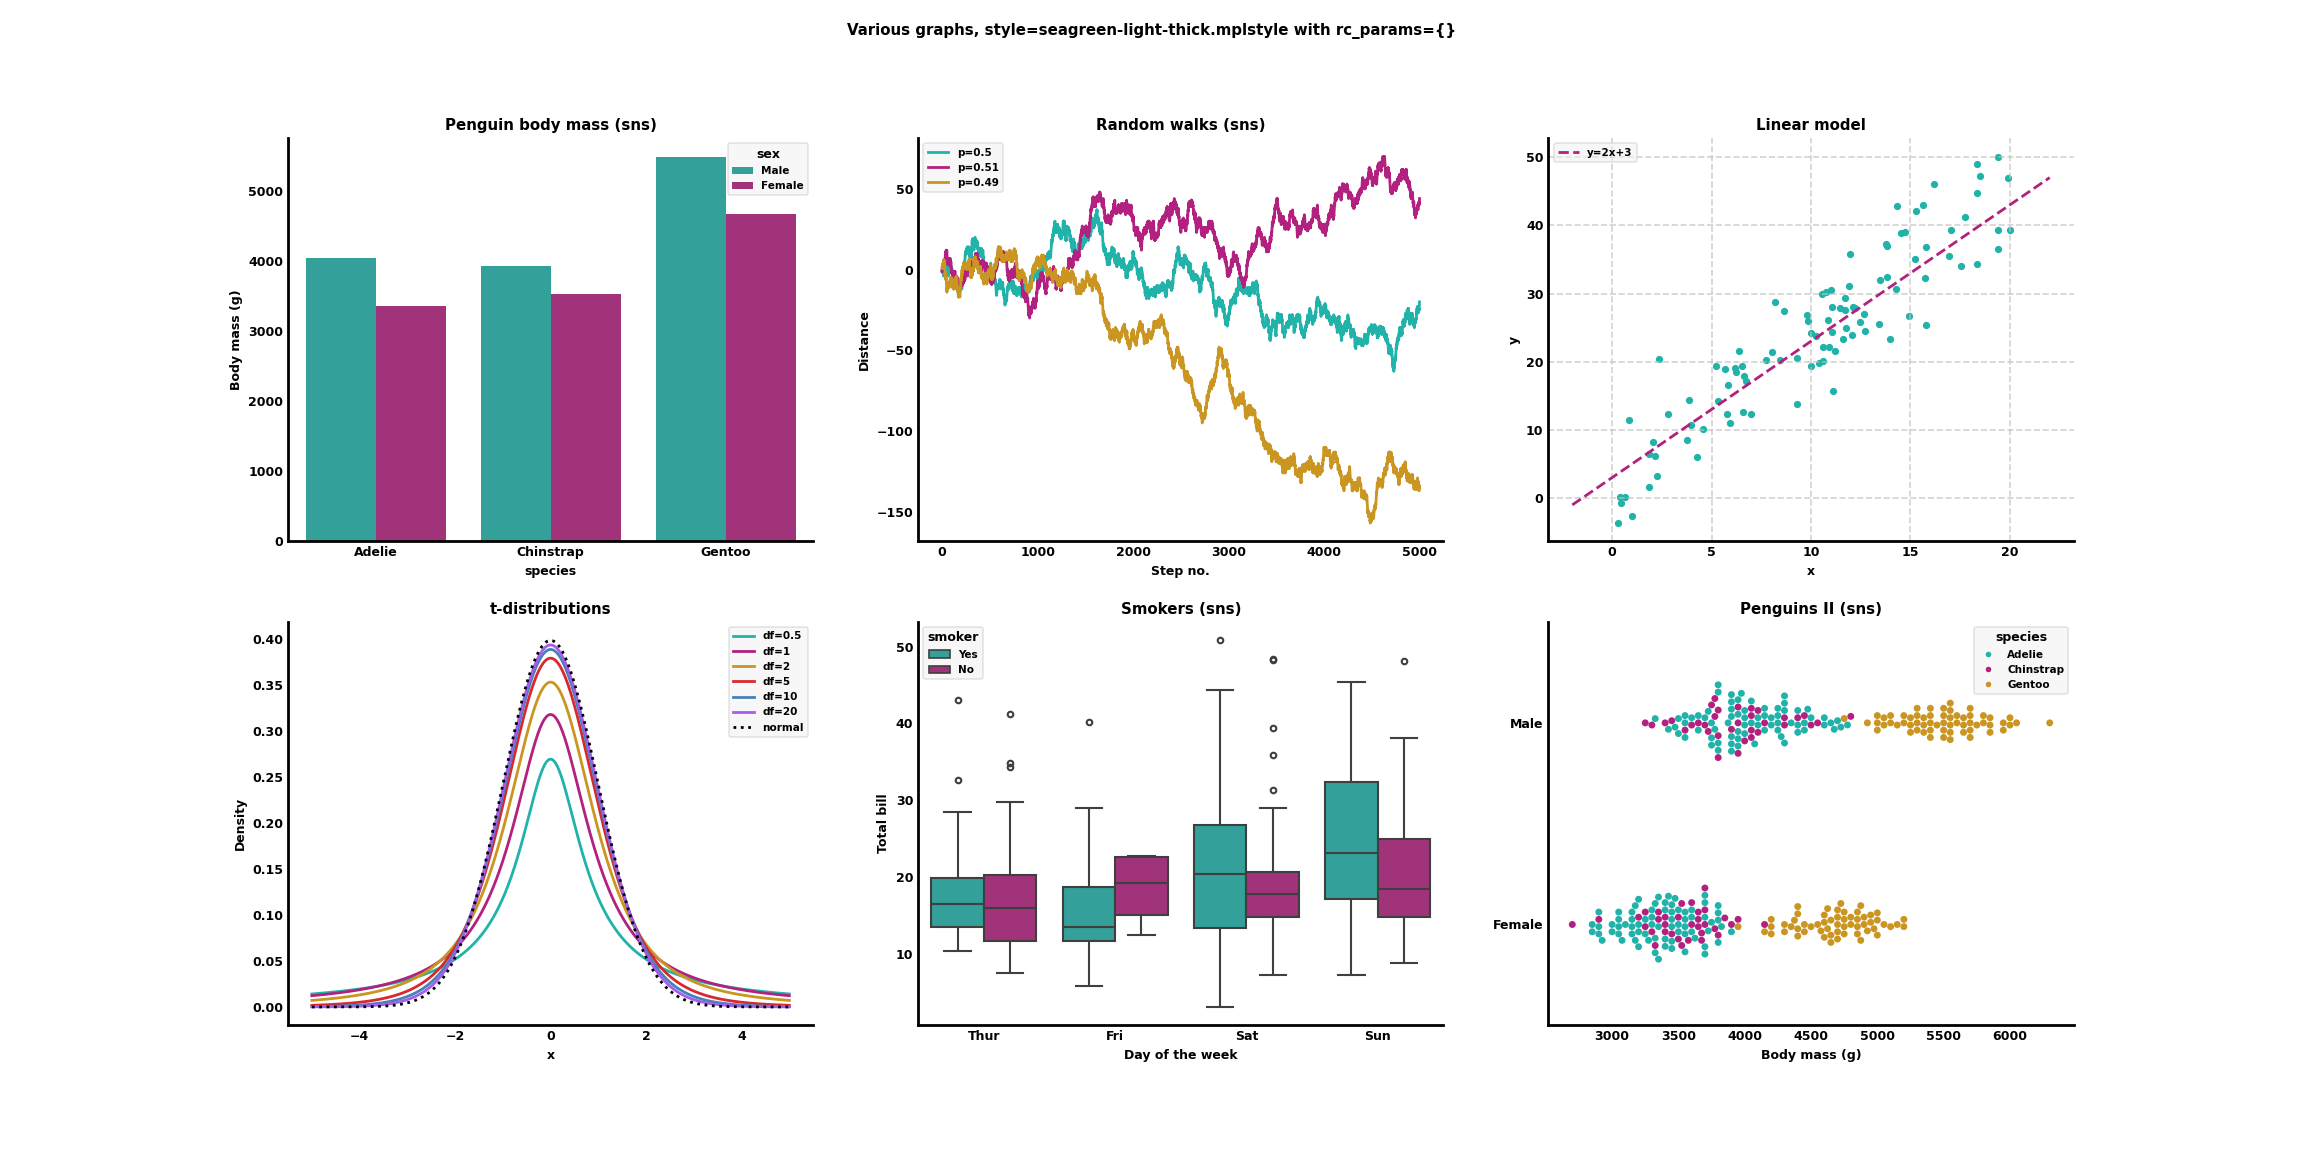
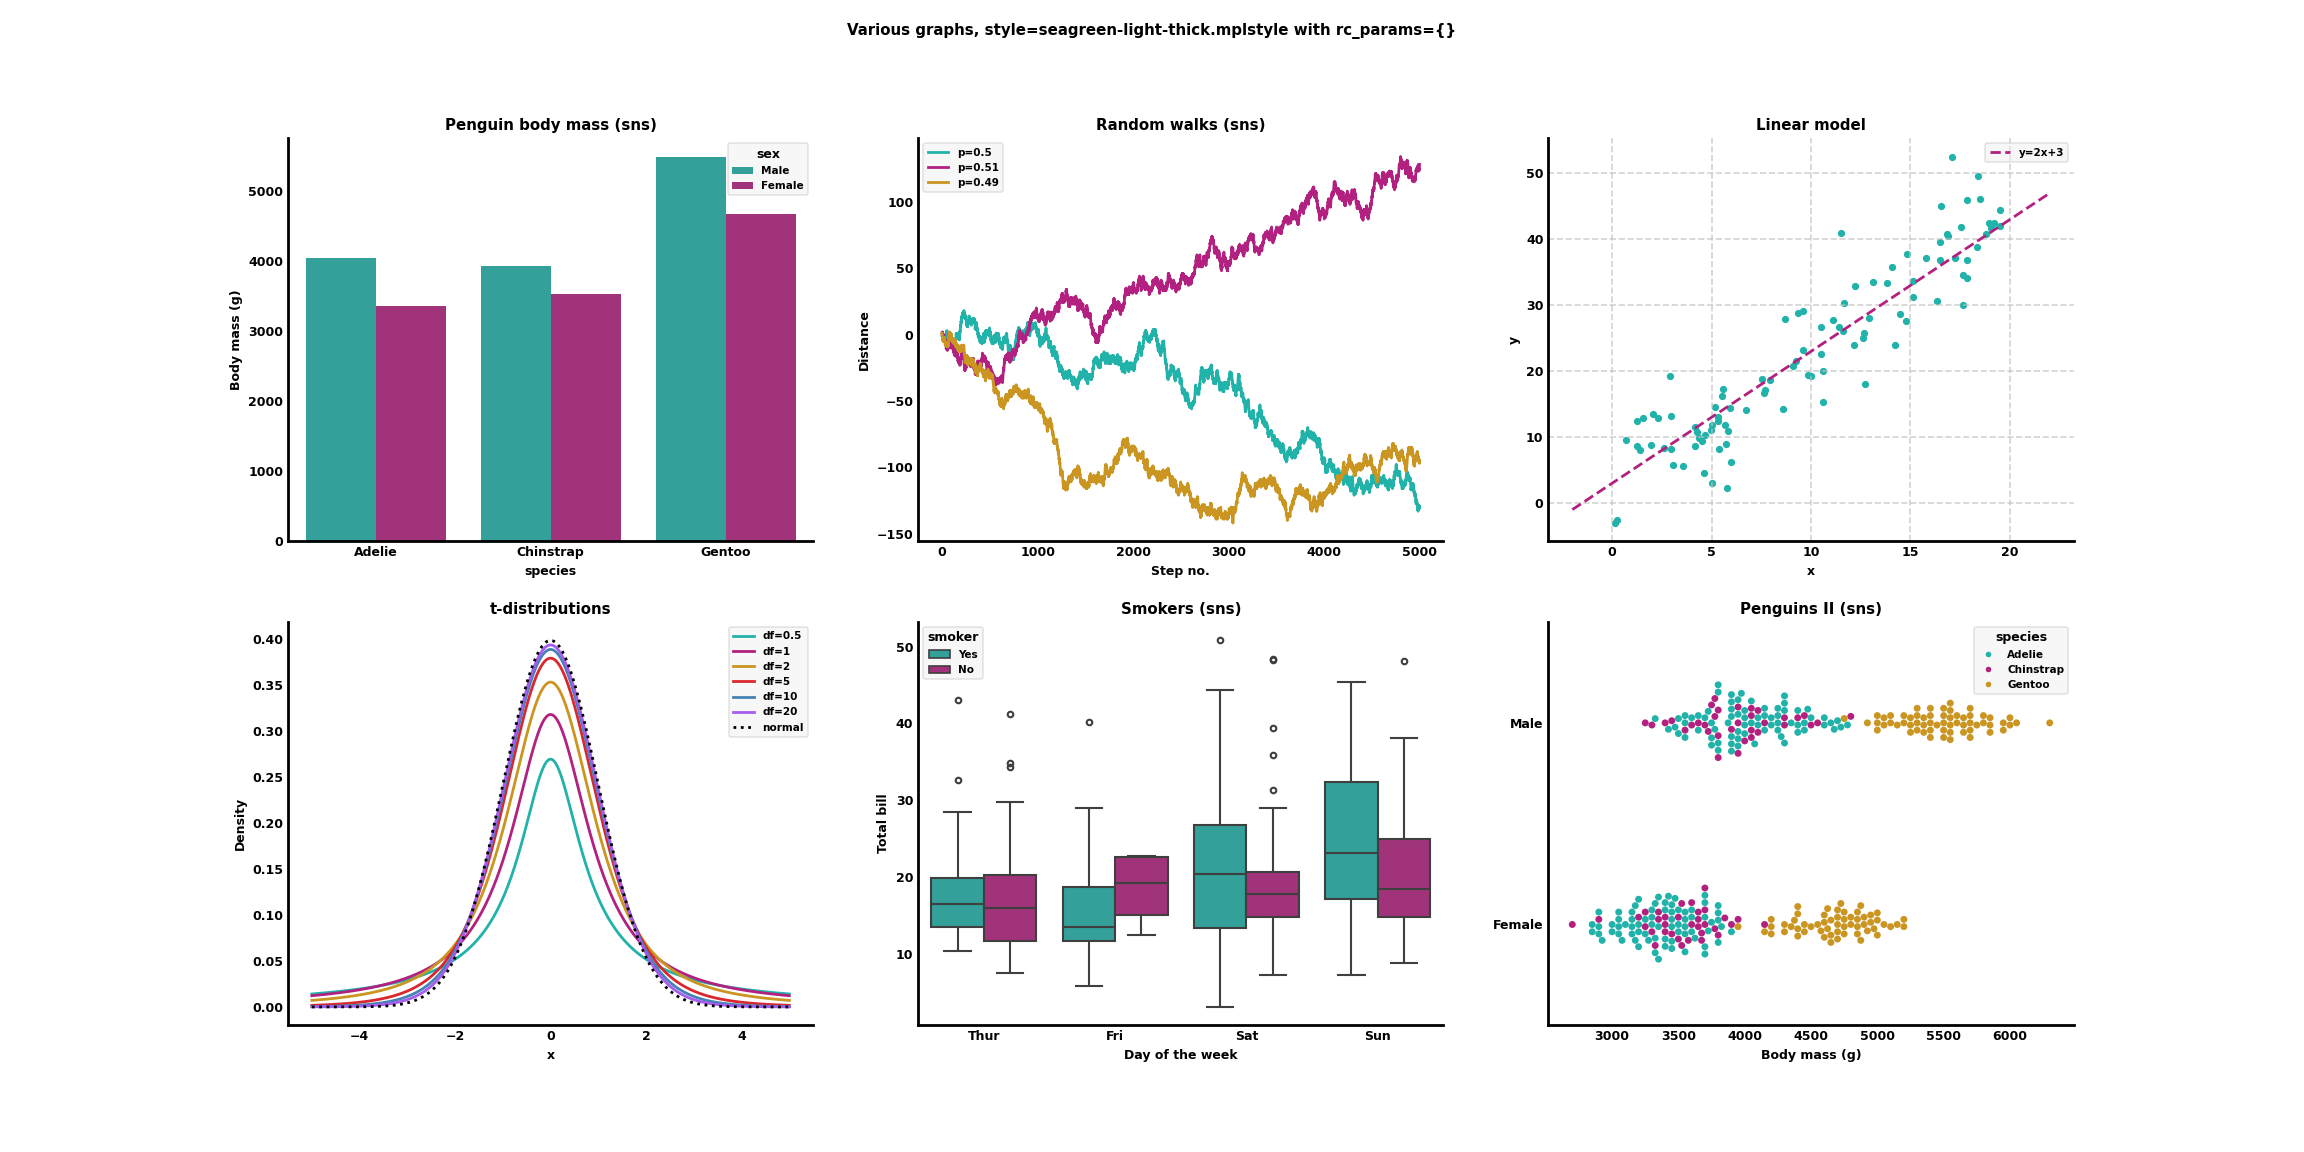
Changes to dark color scheme & minor fix to script

diff --git a/testing_script.py b/testing_script.py
@@ -134,8 +134,6 @@ def draw_plots(style=None, filename=None, **rc_params):
         
         plt.savefig(path)
         
-        plt.savefig(path)
-        
 if __name__ == '__main__':
     for style in [
         None,
@@ -146,4 +144,4 @@ if __name__ == '__main__':
     ]:
         name = style[:-len('.mplstyle')] if style is not None else 'default'
         draw_plots(style=style, filename=f'{name}.png')
-    
+
